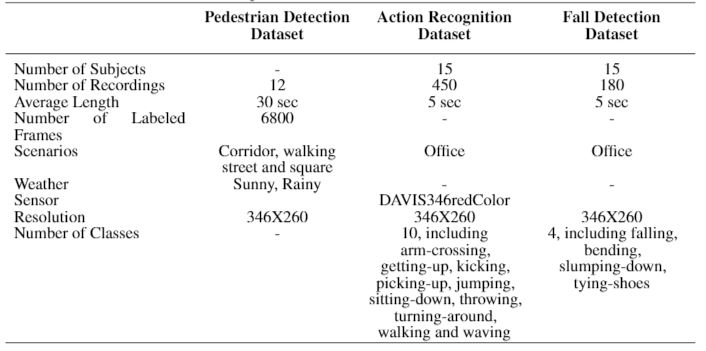
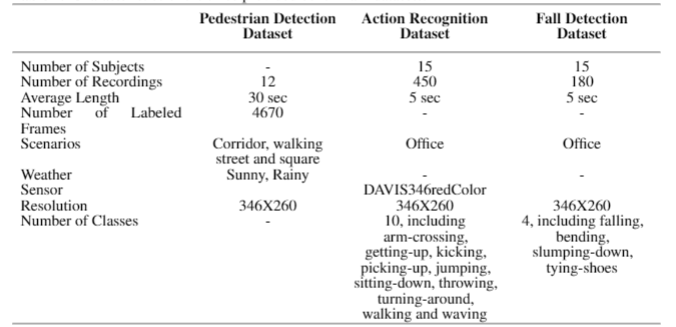
hfujdsfhb

diff --git a/README.md b/README.md
@@ -29,7 +29,7 @@ We upload all the datasets to the cloud server. The user can click to download t
 
 - Fall Detection Dataset [download](https://pan.baidu.com/s/1mHFaDSNJU0iLvgQrZx9DKA) (Extraction code：m3f6)
 
-### A large part of pedestrian detection raw data are converted to 6800 frame images through SAE encoding method with frame interval of 20ms. In our experiment, all these images have been labelled via annotation tool -labelImg.
+### A large part of pedestrian detection raw data are converted to 4670 frame images through SAE encoding method with frame interval of 20ms. In our experiment, all these images have been labelled via annotation tool -labelImg.
 
 
 
